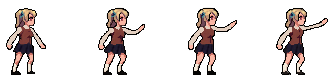
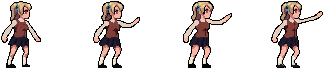
주인공 Skill 애니메이션 추가

diff --git a/girl.py b/girl.py
@@ -1,5 +1,5 @@
 from pico2d import load_image, get_time, load_font, draw_rectangle
-from sdl2 import SDL_KEYDOWN, SDLK_SPACE, SDL_KEYUP, SDLK_LEFT, SDLK_a, SDLK_d, SDLK_e
+from sdl2 import SDL_KEYDOWN, SDLK_SPACE, SDL_KEYUP, SDLK_LEFT, SDLK_a, SDLK_d, SDLK_e, SDLK_q
 
 import game_world
 import game_framework
@@ -33,6 +33,12 @@ def e_down(e):
 
 def e_up(e):
     return e[0] == 'INPUT' and e[1].type == SDL_KEYUP and e[1].key == SDLK_e
+
+def q_down(e):
+    return e[0] == 'INPUT' and e[1].type == SDL_KEYDOWN and e[1].key == SDLK_q
+
+def q_up(e):
+    return e[0] == 'INPUT' and e[1].type == SDL_KEYUP and e[1].key == SDLK_q
 
 PIXEL_PER_METER = (10.0 / 0.3)  # 10 pixel 30 cm
 RUN_SPEED_KMPH = 30.0  # Km / Hour
@@ -297,7 +303,7 @@ class Dead:
 
 class Skill:
     image = None
-    sizes = []
+    sizes = [0, 91, 181, 269]
 
     def __init__(self, girl):
         self.girl = girl
@@ -305,19 +311,32 @@ class Skill:
             Skill.image = load_image('./주인공/Skill.png')
 
     def enter(self, e):
-        pass
+        self.girl.frame = 0.0
+        game_world.scroll_speed = 0.0
 
     def exit(self, e):
         pass
 
     def do(self):
-        pass
+        animation_speed = 5.0
+        self.girl.frame = (self.girl.frame + animation_speed * ACTION_PER_TIME * game_framework.frame_time)
+
+        if self.girl.frame >= len(Skill.sizes):
+            self.girl.frame = len(Skill.sizes) - 1
+            self.girl.state_machine.handle_state_event(('TIMEOUT', None))
 
     def draw(self):
-        pass
+        left = Skill.sizes[int(self.girl.frame)]
+        bottom = 0
+        width = 61
+        height = 68
+        if self.girl.face_dir == -1:
+            Skill.image.clip_composite_draw(left, bottom, width, height, 0, 'h', self.girl.x, self.girl.y, 130, 170)
+        else:
+            Skill.image.clip_composite_draw(left, bottom, width, height, 0, '', self.girl.x, self.girl.y, 130, 170)
 
     def get_bb(self):
-        return 0, 0, 0, 0
+        return self.girl.x - 65, self.girl.y - 85, self.girl.x + 65, self.girl.y + 85
 
 
 class Girl:
@@ -343,23 +362,27 @@ class Girl:
         self.ATTACK = Attack(self)
         self.HURT = Hurt(self)
         self.DEAD = Dead(self)
+        self.SKILL = Skill(self)
         self.state_machine = StateMachine(
             self.IDLE,
             {
                 self.PROTECTION : {e_up: self.IDLE, hit_by_enemy: self.HURT, hp_is_zero: self.DEAD,
-                                   left_down: self.WALK, right_down: self.WALK, space_down: self.ATTACK},
+                                   left_down: self.WALK, right_down: self.WALK, space_down: self.ATTACK, q_down : self.SKILL},
                 self.IDLE : {space_down: self.ATTACK, right_down: self.WALK, left_down: self.WALK
                              , left_up: self.WALK, right_up : self.WALK , e_down: self.PROTECTION, hit_by_enemy: self.HURT,
-                             hp_is_zero: self.DEAD},
+                             hp_is_zero: self.DEAD, q_down : self.SKILL},
                 self.WALK : {space_down: self.ATTACK, right_up: self.IDLE, left_up: self.IDLE,
                              right_down: self.IDLE, left_down: self.IDLE, e_down: self.PROTECTION, hit_by_enemy: self.HURT,
-                             hp_is_zero: self.DEAD},
+                             hp_is_zero: self.DEAD, q_down : self.SKILL},
                 self.ATTACK : {time_out: self.IDLE, e_down: self.PROTECTION, space_down: self.ATTACK,
                                right_down: self.WALK, left_down: self.WALK, hit_by_enemy: self.HURT,
-                               hp_is_zero: self.DEAD},
+                               hp_is_zero: self.DEAD, q_down : self.SKILL},
                 self.HURT: { time_out_to_idle: self.IDLE, time_out_to_walk: self.WALK, space_down: self.ATTACK,
-                             e_down: self.PROTECTION, hp_is_zero: self.DEAD, right_down: self.WALK, left_down: self.WALK},
-                self.DEAD : {}
+                             e_down: self.PROTECTION, hp_is_zero: self.DEAD, right_down: self.WALK, left_down: self.WALK, q_down : self.SKILL},
+                self.DEAD : {},
+                self.SKILL : {hit_by_enemy: self.HURT, hp_is_zero: self.DEAD, left_down: self.WALK, right_down: self.WALK,
+                                space_down: self.ATTACK, time_out: self.IDLE,  e_down: self.PROTECTION}
+
             }
         )
 
